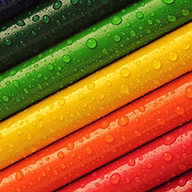
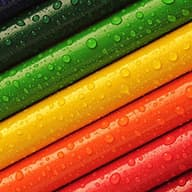
optimize img

diff --git a/sw.js b/sw.js
@@ -11,9 +11,9 @@ self.addEventListener("install", function(event) {
           "/favicon.ico",
           "/apple-touch-icon.png",
           "/css/styles.css",
-          "/images/android-chrome-192x192.png",
+          "/images/android-chrome-192x192.jpg",
           "/images/pencils-452238_640x192.jpg",
-          "/images/android-chrome-512x512.png",
+          "/images/android-chrome-512x512.jpg",
           "/images/mstile-150x150.png",
           "/images/pencils-452238_640x512.jpg",
           "/app.js",
